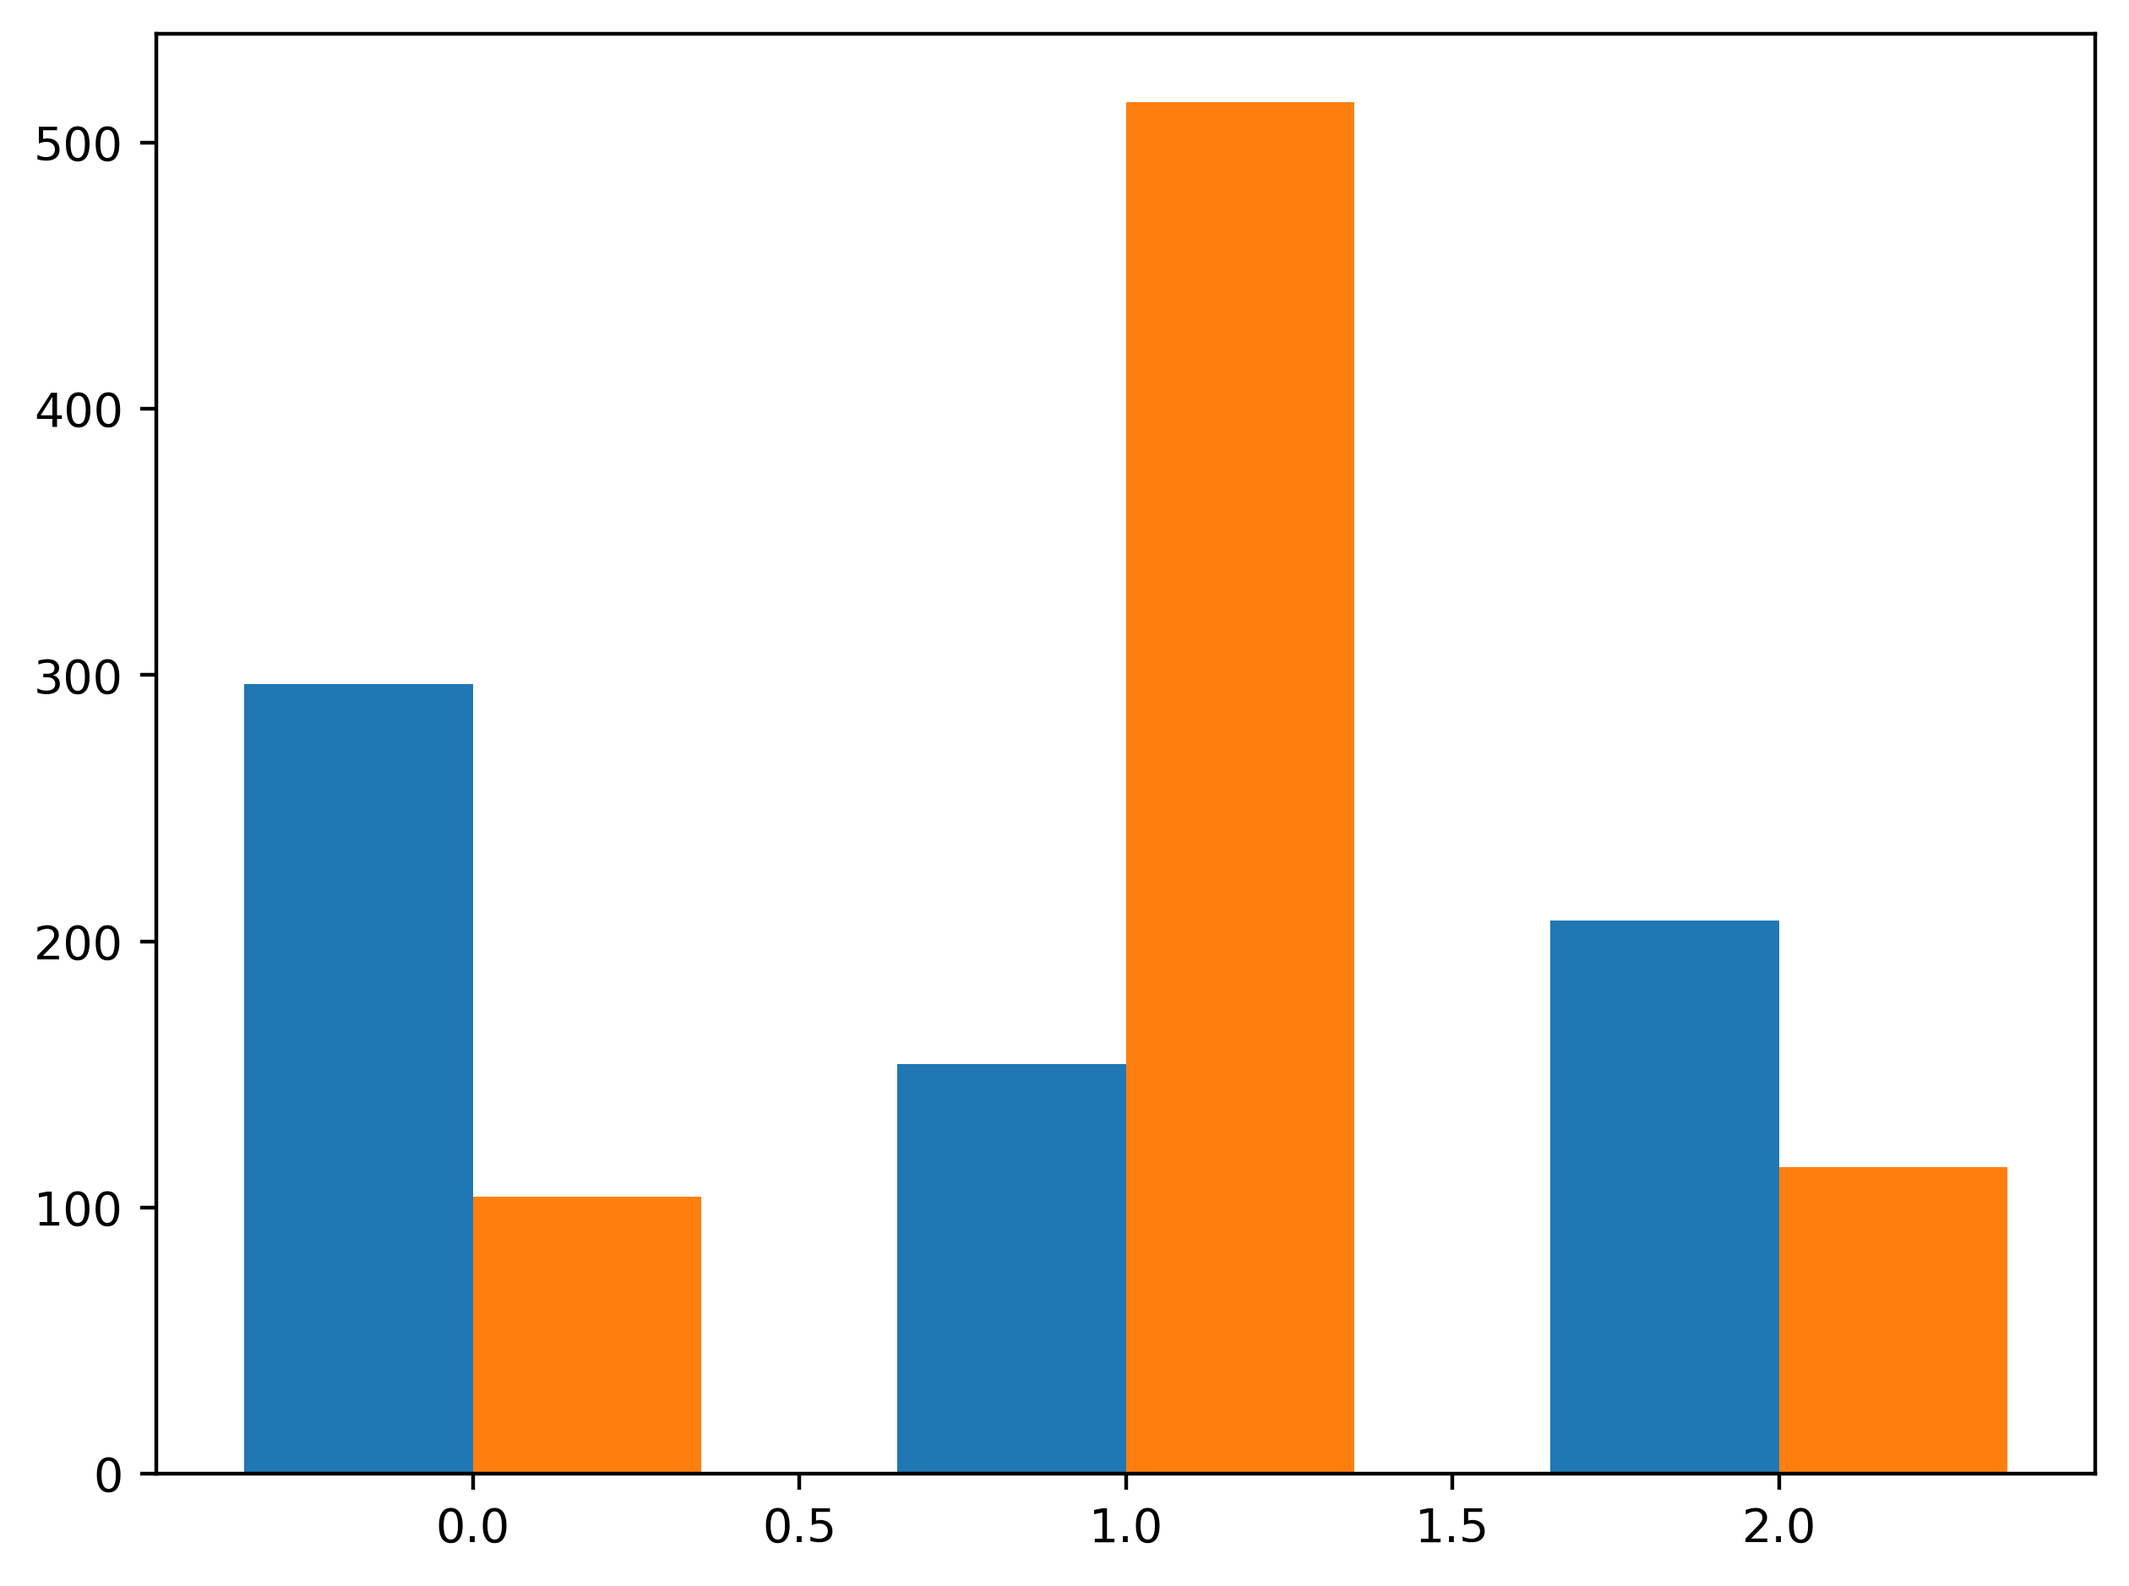
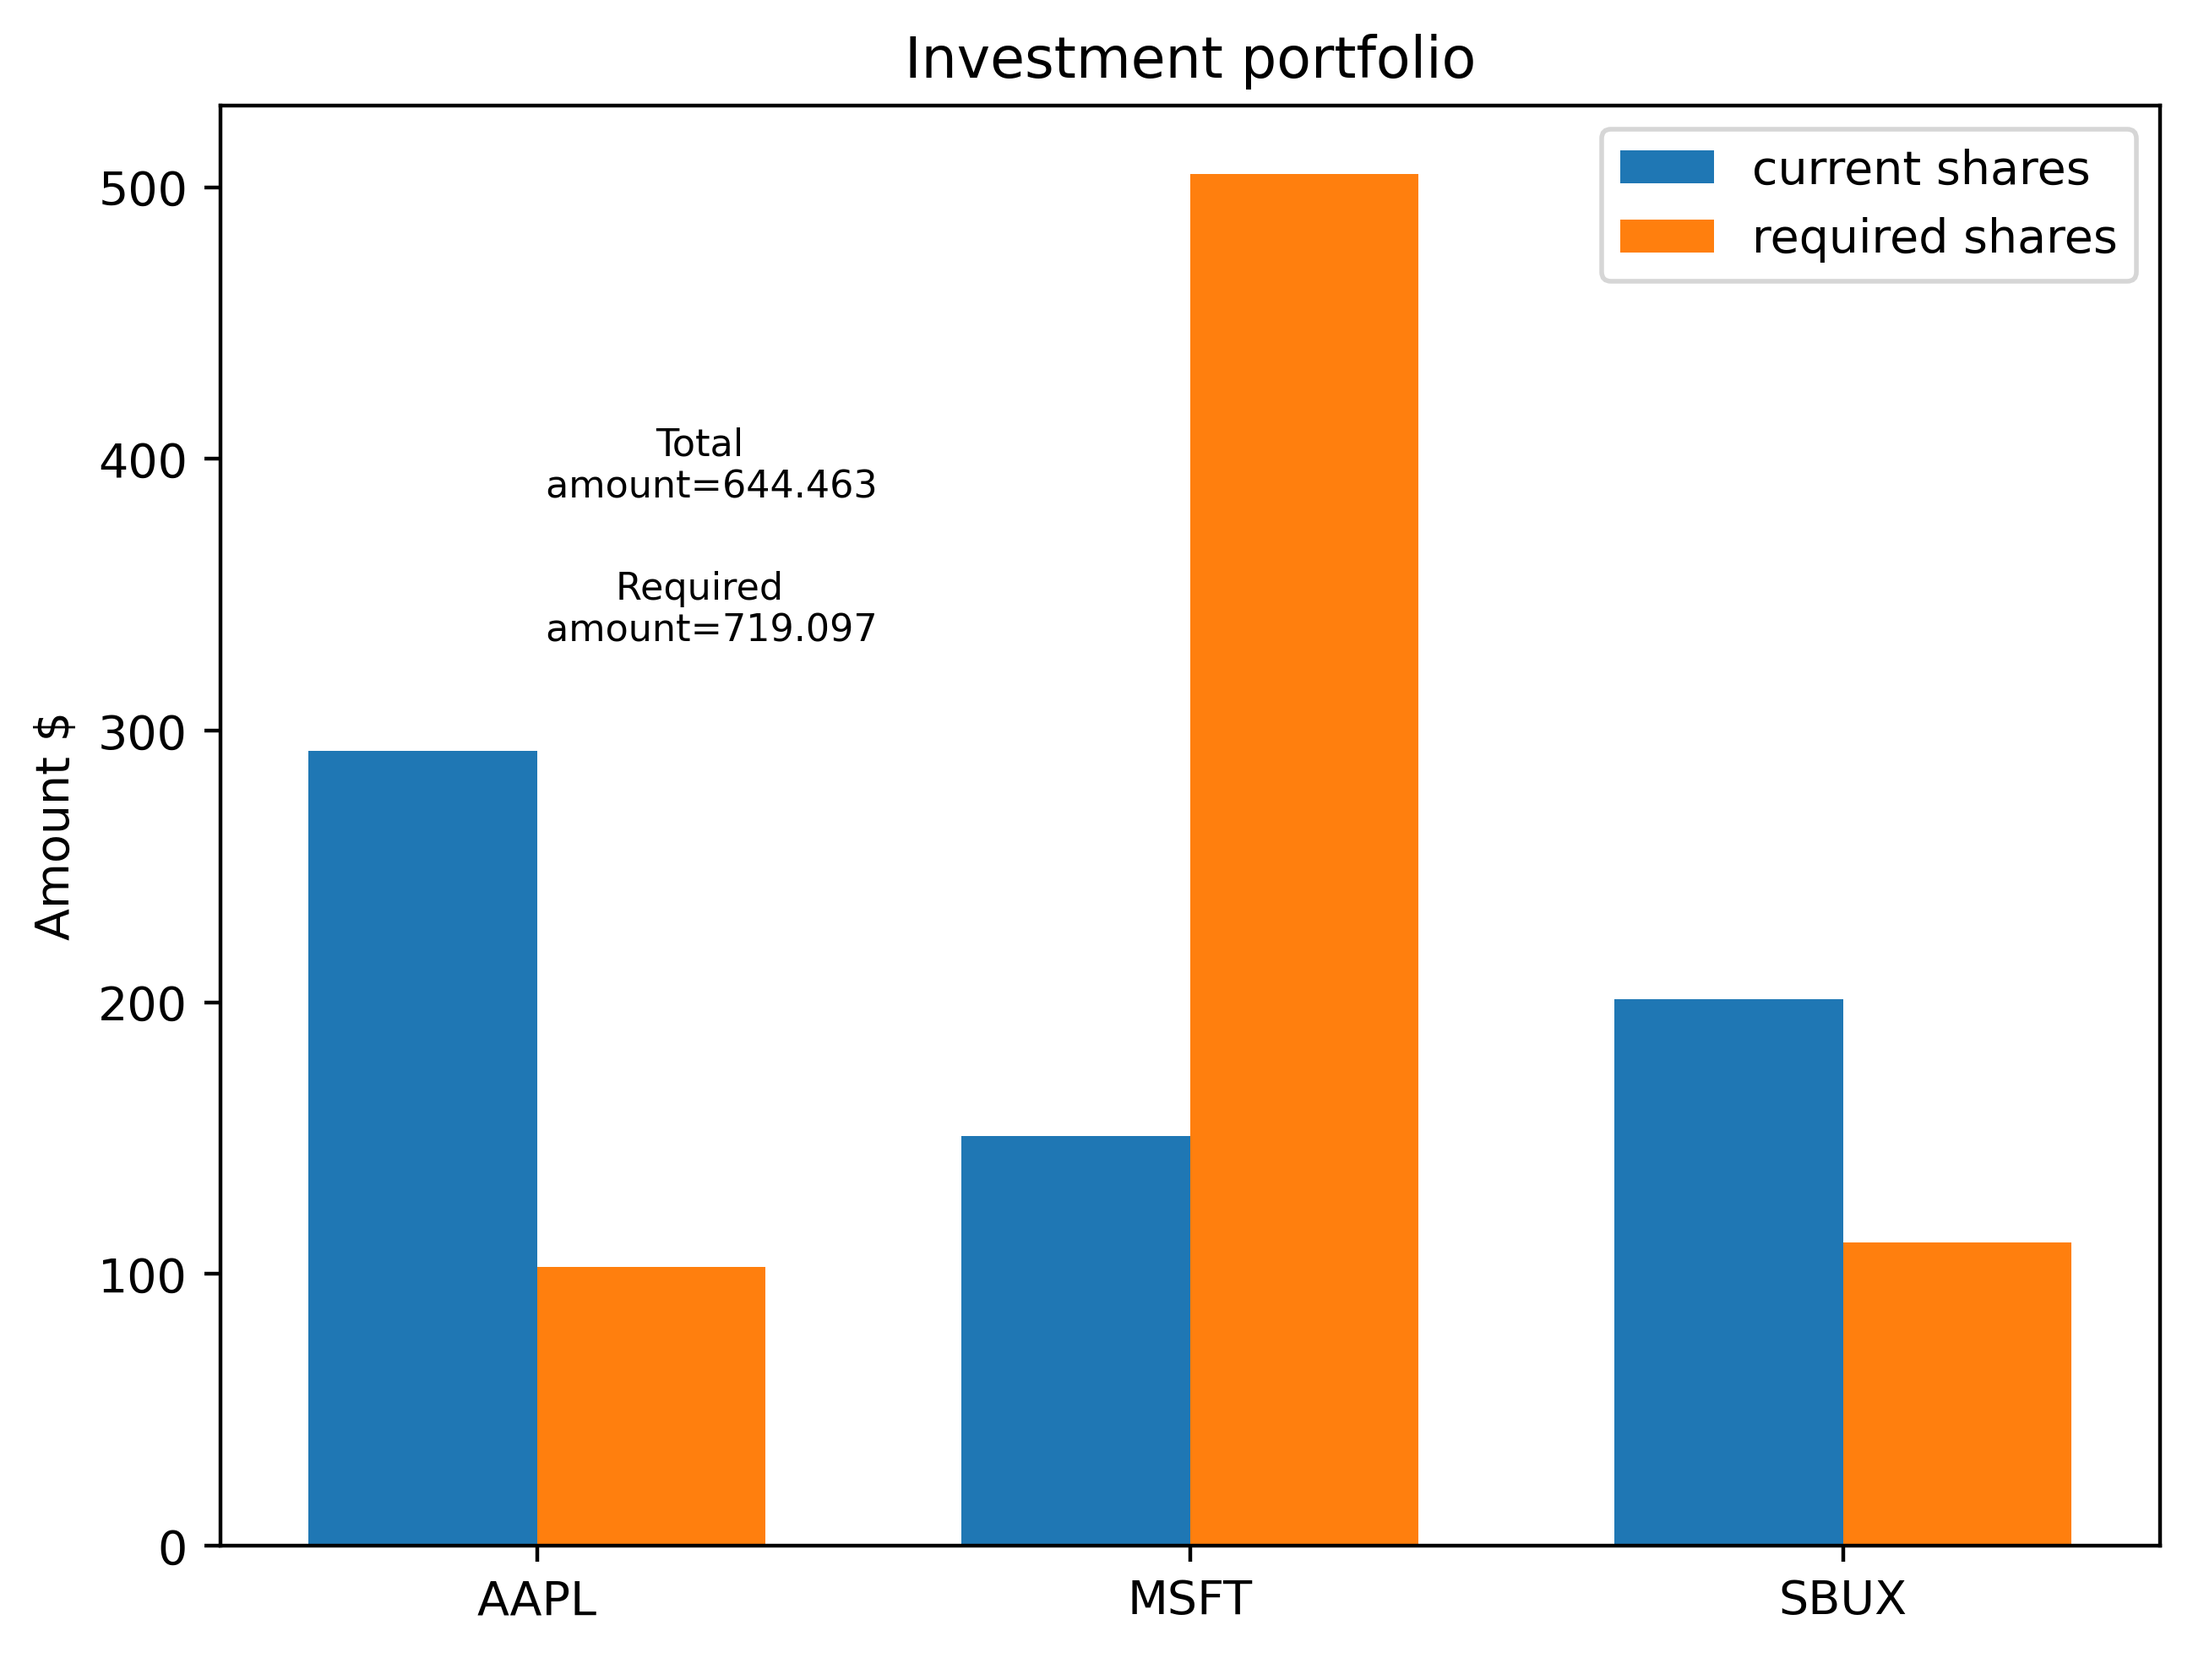
adds annotation with scaled coordinates

diff --git a/code/bar-test.py b/code/bar-test.py
@@ -2,6 +2,7 @@ import matplotlib.pyplot as plt
 import yfinance as fin
 import numpy as np
 
+
 def ShowStocks(stock_names, stock_shares, required_shares):
 
     x_ticks = np.arange(len(stock_names))
@@ -36,6 +37,16 @@ def ShowStocks(stock_names, stock_shares, required_shares):
     #     f'Total \n amount={round(sum(current_market_value),3)}', [1, 250])
     # plt.annotate(
     #     f'Required \n amount={round(sum(required_market_value),3)}', [1.2, 150])
+    plt.text(0.25, 0.75, f'Total \n amount={round(sum(current_market_value),3)}', horizontalalignment='center',
+             verticalalignment='center', transform=ax.transAxes, fontsize=8)
+    plt.text(0.25, 0.65, f'Required \n amount={round(sum(required_market_value),3)}', horizontalalignment='center',
+             verticalalignment='center', transform=ax.transAxes, fontsize=8)
+    ax.set_title('Investment portfolio')
+    ax.set_xticks(x_ticks)
+    ax.set_xticklabels(stock_names)
+    ax.set_ylabel('Amount $')
+    ax.legend(loc='best')
+
     # plt.xticks(x_ticks, stock_names)
     # plt.yticks([0, max(stock_shares)/2, max(stock_shares)])
     # plt.title('Current investment portfolio')
